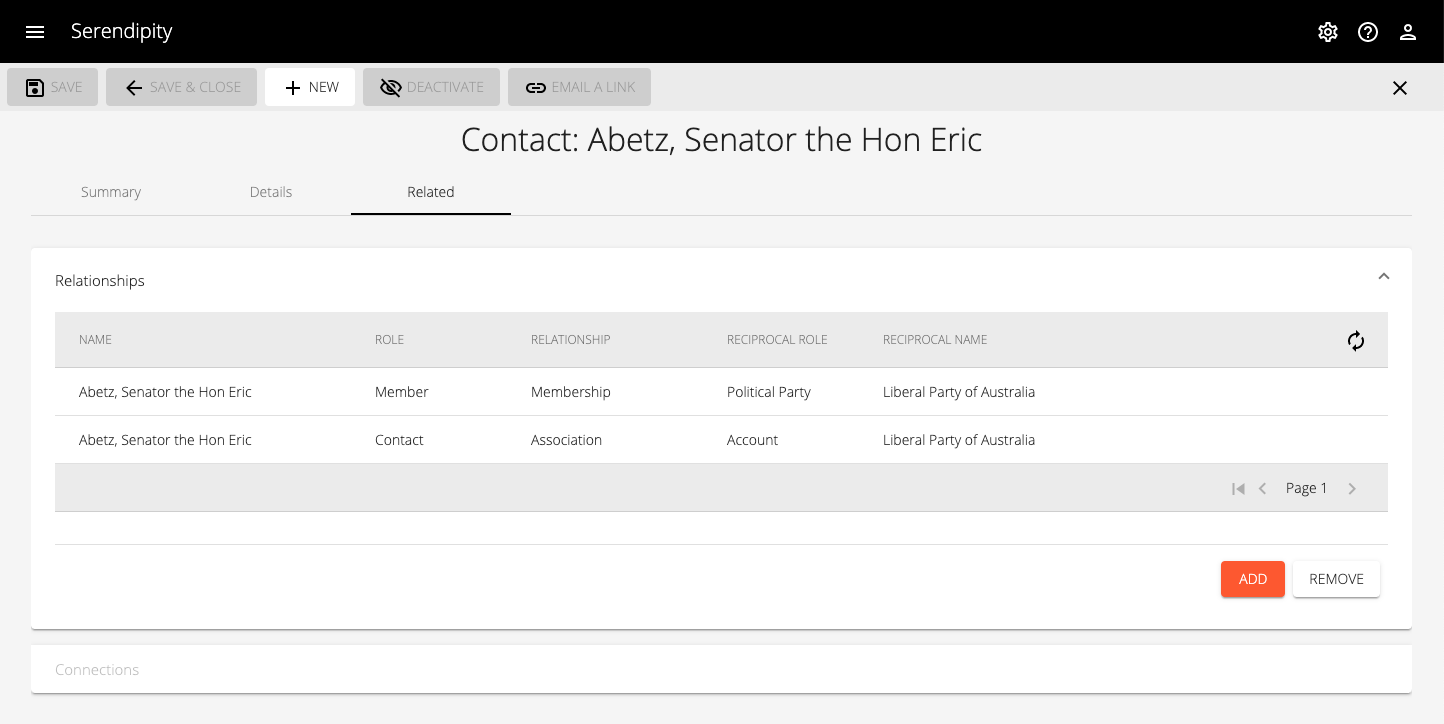
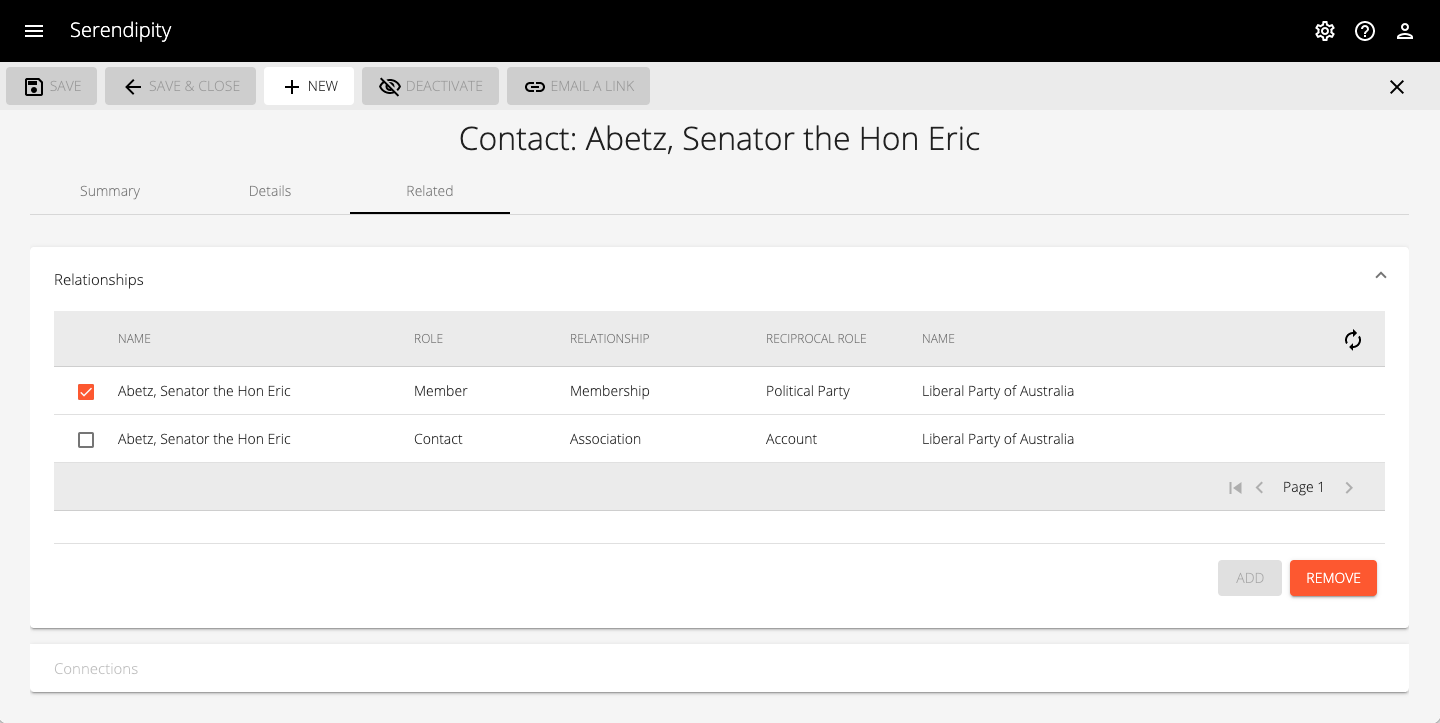
Updated the Contact component's Related tab

diff --git a/frontend/projects/party-lib/src/lib/components/contact-related-tab/contact-related-tab.component.ts b/frontend/projects/party-lib/src/lib/components/contact-related-tab/contact-related-tab.component.ts
@@ -3,6 +3,7 @@ import { Component } from '@angular/core';
 import { TabComponent } from 'serendipity-components-lib';
 
 import { Contact } from '../../models/contact';
+import { Role } from '../../models/role';
 
 @Component({
   selector: 'contact-related-tab',
@@ -11,8 +12,51 @@ import { Contact } from '../../models/contact';
 })
 export class ContactRelatedTabComponent extends TabComponent<Contact> {
 
+  public addButtonLabel = 'ADD';
+  public removeButtonLabel = 'REMOVE';
+
+  public disableAddButton = false;
+  public disableRemoveButton = true;
+
+  // private currentUser: any;
+  private selectedItem!: any;
+
   constructor() {
     super();
+  }
+
+  public onSelectEvent(role: Role) {
+
+    this.logger.info('ContactRelatedTabComponent: onSelectEvent()');
+
+    if (role.id !== undefined) {
+
+      this.selectedItem = role;
+
+      this.logger.info('selectedItem: ' + JSON.stringify(this.selectedItem, null, 2));
+
+      this.disableAddButton = true;
+
+    } else {
+
+      this.disableAddButton = false;
+
+    }
+
+    this.disableRemoveButton = !this.disableAddButton;
+
+  }
+
+  //
+  // Action Bar events
+  //
+
+  public onAdd(): void {
+
+  }
+
+  public onRemove(): void {
+
   }
 
 }

diff --git a/frontend/projects/party-lib/src/lib/components/contact-relationship-list/contact-relationship-list.component.ts b/frontend/projects/party-lib/src/lib/components/contact-relationship-list/contact-relationship-list.component.ts
@@ -1,4 +1,5 @@
-import { Component } from '@angular/core';
+import { SelectionModel } from "@angular/cdk/collections";
+import { Component, EventEmitter, Output } from '@angular/core';
 
 import { MatTableDataSource } from '@angular/material/table';
 
@@ -16,6 +17,10 @@ import { Role } from '../../models/role';
   styleUrls: ['./contact-relationship-list.component.scss']
 })
 export class ContactRelationshipListComponent extends RelationshipListComponent<Contact> {
+
+  @Output() selectEvent = new EventEmitter<Role>();
+
+  selection = new SelectionModel<Role>(false, []);
 
   constructor(private entityAdapter: RoleAdapter,
               private entityService: RelationshipsService) {
@@ -86,6 +91,22 @@ export class ContactRelationshipListComponent extends RelationshipListComponent<
       }
 
     );
+
+  }
+
+  selectHandler(row: Role) {
+
+    if (!this.selection.isSelected(row)) {
+      this.selection.clear();
+    }
+
+    this.selection.toggle(row);
+
+    if (this.selection.isSelected(row)) {
+      this.selectEvent.emit(row);
+    } else {
+      this.selectEvent.emit(new Role());
+    }
 
   }
 

diff --git a/frontend/projects/party-lib/src/lib/components/contact-related-tab/contact-related-tab.component.html b/frontend/projects/party-lib/src/lib/components/contact-related-tab/contact-related-tab.component.html
@@ -12,20 +12,26 @@
 
     <ng-template matExpansionPanelContent>
 
-      <contact-relationship-list [item]="item">
+      <contact-relationship-list [item]="item" (selectEvent)="onSelectEvent($event)">
       </contact-relationship-list>
 
       <mat-action-row>
 
         <button mat-raised-button
                 color="accent"
-                #addButton>
-          ADD
+                #addButton
+                [disabled]="disableAddButton"
+                (keydown.arrowright)="removeButton.focus()"
+                (click)="onAdd()">
+          {{ addButtonLabel }}
         </button>
 
         <button mat-raised-button
-                #removeButton>
-          REMOVE
+                color="accent"
+                #removeButton
+                [disabled]="disableRemoveButton"
+                (click)="onRemove()">
+          {{ removeButtonLabel }}
         </button>
 
       </mat-action-row>

diff --git a/frontend/projects/party-lib/src/lib/models/constants.ts b/frontend/projects/party-lib/src/lib/models/constants.ts
@@ -59,8 +59,8 @@ export const ACTIVITIES_COLUMNS_MOBILE  = [ 'type', 'subject', 'id' ];
 export const CONTACTS_COLUMNS_DESKTOP = [ 'party.displayName', 'email', 'organisation.displayName', 'organisation.phoneNumber', 'id' ];
 export const CONTACTS_COLUMNS_MOBILE  = [ 'party.displayName', 'organisation.phoneNumber', 'id' ];
 
-export const RELATIONSHIP_LIST_COLUMNS_DESKTOP = [ 'partyName', 'role', 'relationship', 'reciprocalRole', 'reciprocalPartyName', 'id' ];
-export const RELATIONSHIP_LIST_COLUMNS_MOBILE  = [ 'partyName', 'role', 'reciprocalRole', 'reciprocalPartyName', 'id' ];
+export const RELATIONSHIP_LIST_COLUMNS_DESKTOP = [ 'select', 'partyName', 'role', 'relationship', 'reciprocalRole', 'reciprocalPartyName', 'id' ];
+export const RELATIONSHIP_LIST_COLUMNS_MOBILE  = [ 'select', 'partyName', 'role', 'reciprocalRole', 'reciprocalPartyName', 'id' ];
 
 //
 // TODO

diff --git a/frontend/projects/party-lib/src/lib/components/contact-relationship-list/contact-relationship-list.component.html b/frontend/projects/party-lib/src/lib/components/contact-relationship-list/contact-relationship-list.component.html
@@ -9,6 +9,22 @@
            matSortStart="desc"
            matSortDisableClear>
 
+      <!-- Checkbox column -->
+
+      <ng-container matColumnDef="select">
+
+        <th mat-header-cell *matHeaderCellDef> </th>
+
+        <td mat-cell *matCellDef="let row">
+          <mat-checkbox (click)="$event.stopPropagation()" (change)="selectHandler(row)"
+                        [checked]="selection.isSelected(row)">
+          </mat-checkbox>
+        </td>
+
+        <td mat-footer-cell *matFooterCellDef> </td>
+
+      </ng-container>
+
       <!-- Dynamic columns -->
 
       <ng-container *ngFor="let column of columnDefs" [matColumnDef]="column.name">

diff --git a/frontend/projects/party-lib/src/lib/styles.scss b/frontend/projects/party-lib/src/lib/styles.scss
@@ -7,6 +7,7 @@ $phone-number-column-width: 140px !default;
 $email-column-width: 260px !default;
 $relationship-column-width: 180px !default;
 $role-column-width: 140px !default;
+$select-column-width: 24px !default;
 
 // Table
 

diff --git a/frontend/projects/party-lib/src/lib/components/contact-relationship-list/contact-relationship-list.component.scss b/frontend/projects/party-lib/src/lib/components/contact-relationship-list/contact-relationship-list.component.scss
@@ -2,6 +2,11 @@
 
 // Columns
 
+.mat-column-select {
+  width: $select-column-width;
+  max-width: $select-column-width;
+}
+
 .mat-column-partyName {
   width: $name-column-width;
   max-width: $name-column-width;

diff --git a/frontend/projects/party-lib/src/lib/components/account-list/account-list.component.scss b/frontend/projects/party-lib/src/lib/components/account-list/account-list.component.scss
@@ -2,6 +2,11 @@
 
 // Columns
 
+.mat-column-select {
+  width: $select-column-width;
+  max-width: $select-column-width;
+}
+
 .mat-column-name {
   width: $name-column-width;
   max-width: $name-column-width;

diff --git a/frontend/projects/party-lib/src/lib/components/dialogs/lookup-account-dialog/lookup-account-dialog.component.ts b/frontend/projects/party-lib/src/lib/components/dialogs/lookup-account-dialog/lookup-account-dialog.component.ts
@@ -124,7 +124,7 @@ export class LookupAccountDialogComponent implements OnInit {
   }
 
   //
-  // Action bar events
+  // Action Bar events
   //
 
   public onAdd(): void {

diff --git a/frontend/projects/party-lib/src/lib/components/contact/contact.component.ts b/frontend/projects/party-lib/src/lib/components/contact/contact.component.ts
@@ -467,7 +467,6 @@ export class ContactComponent extends ItemComponent<Contact> {
 
   }
 
-
   //
   // Misc events
   //
